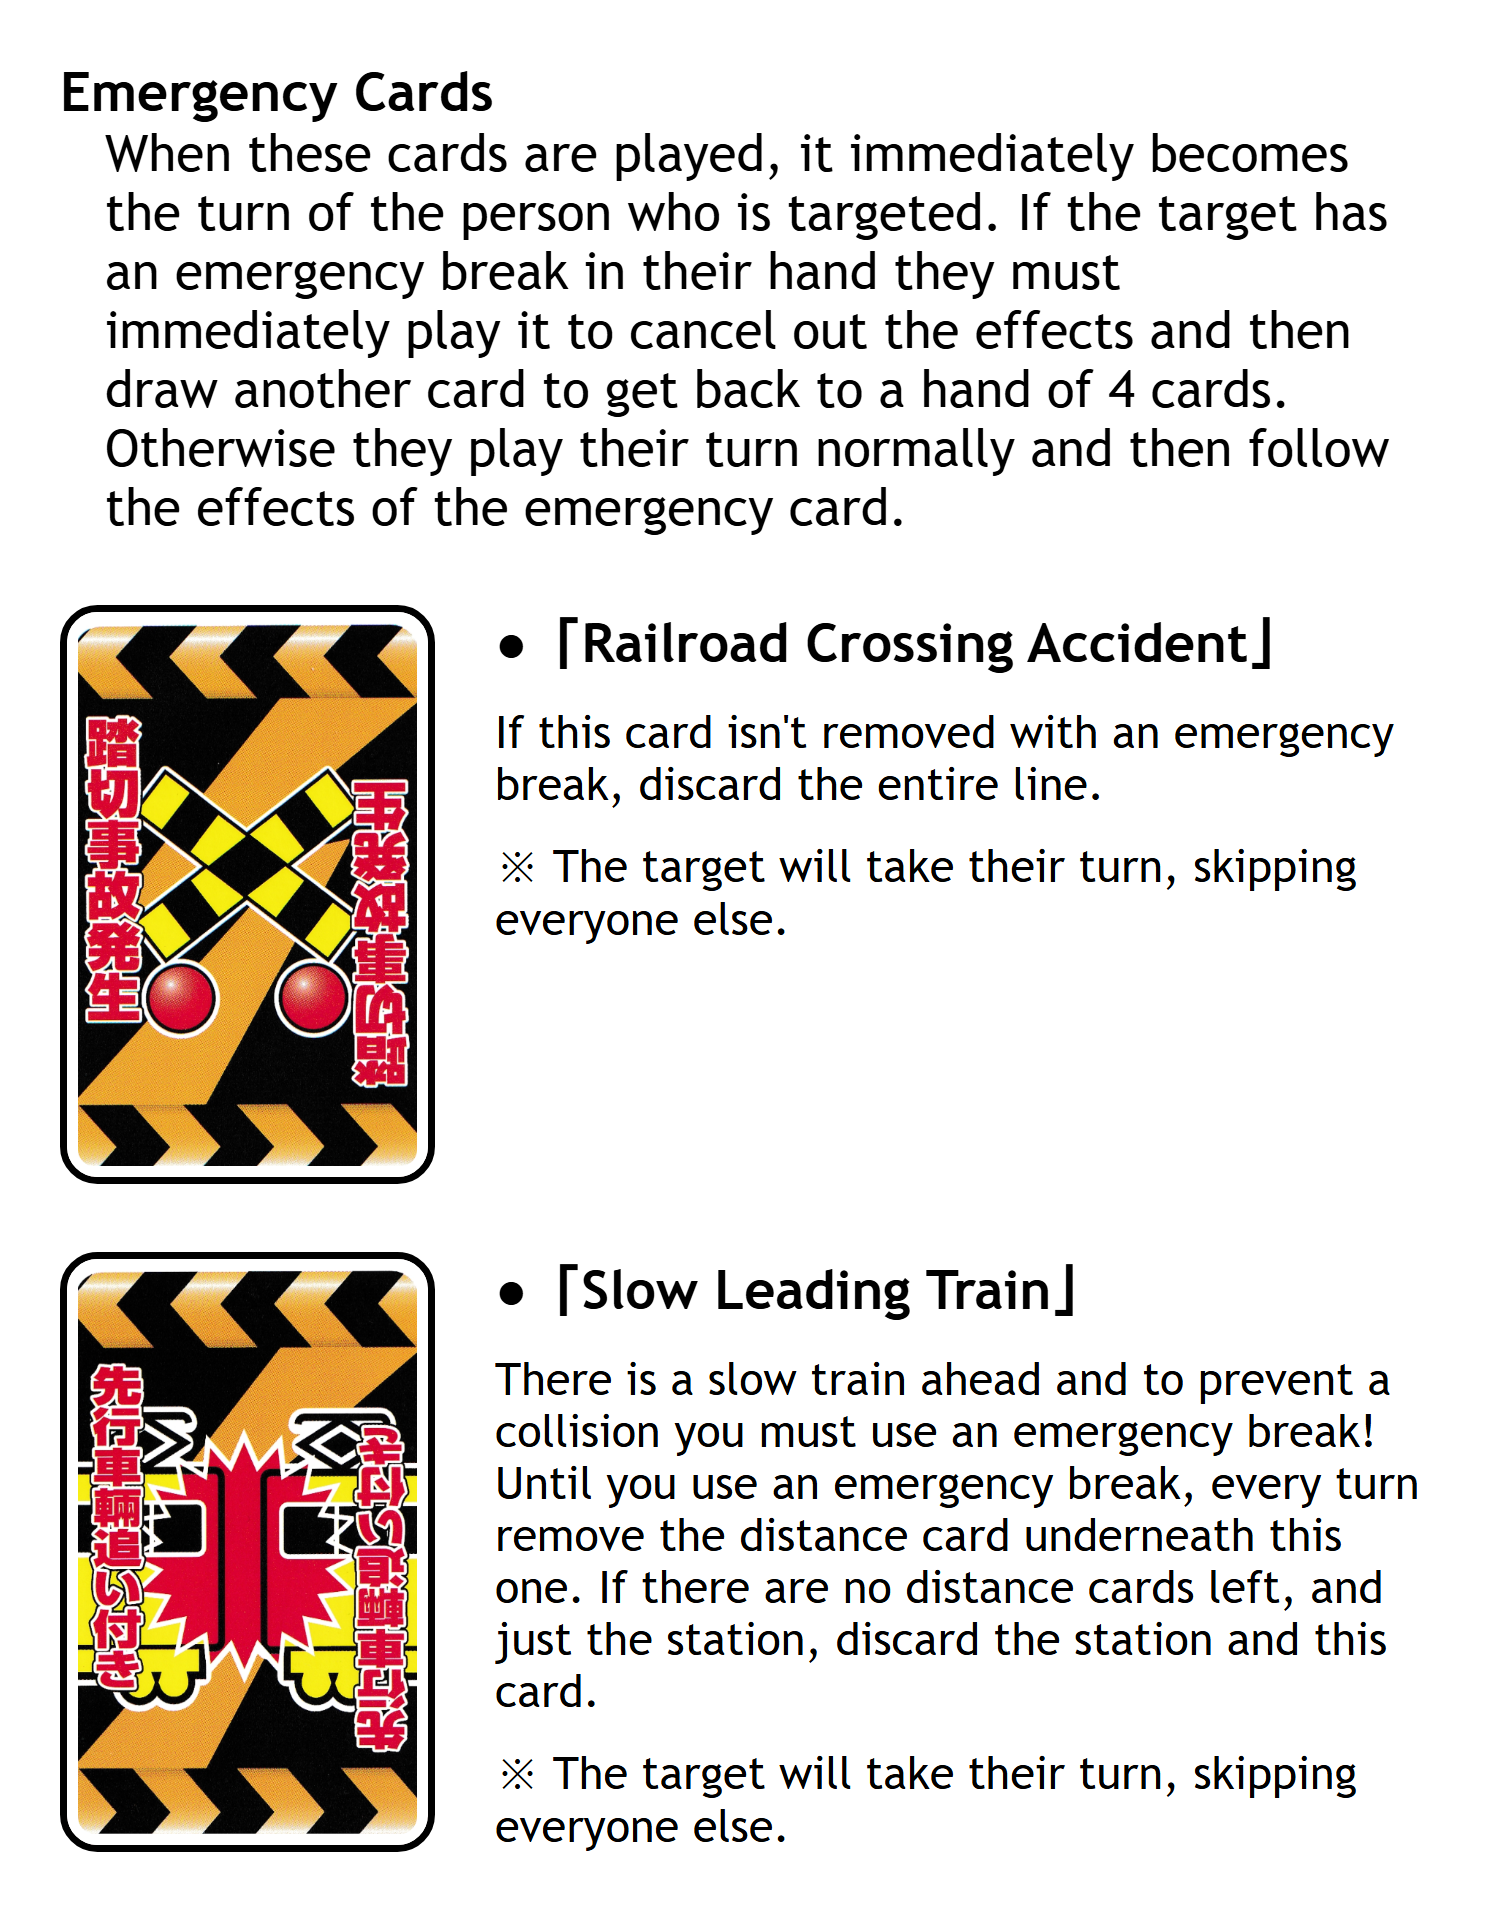
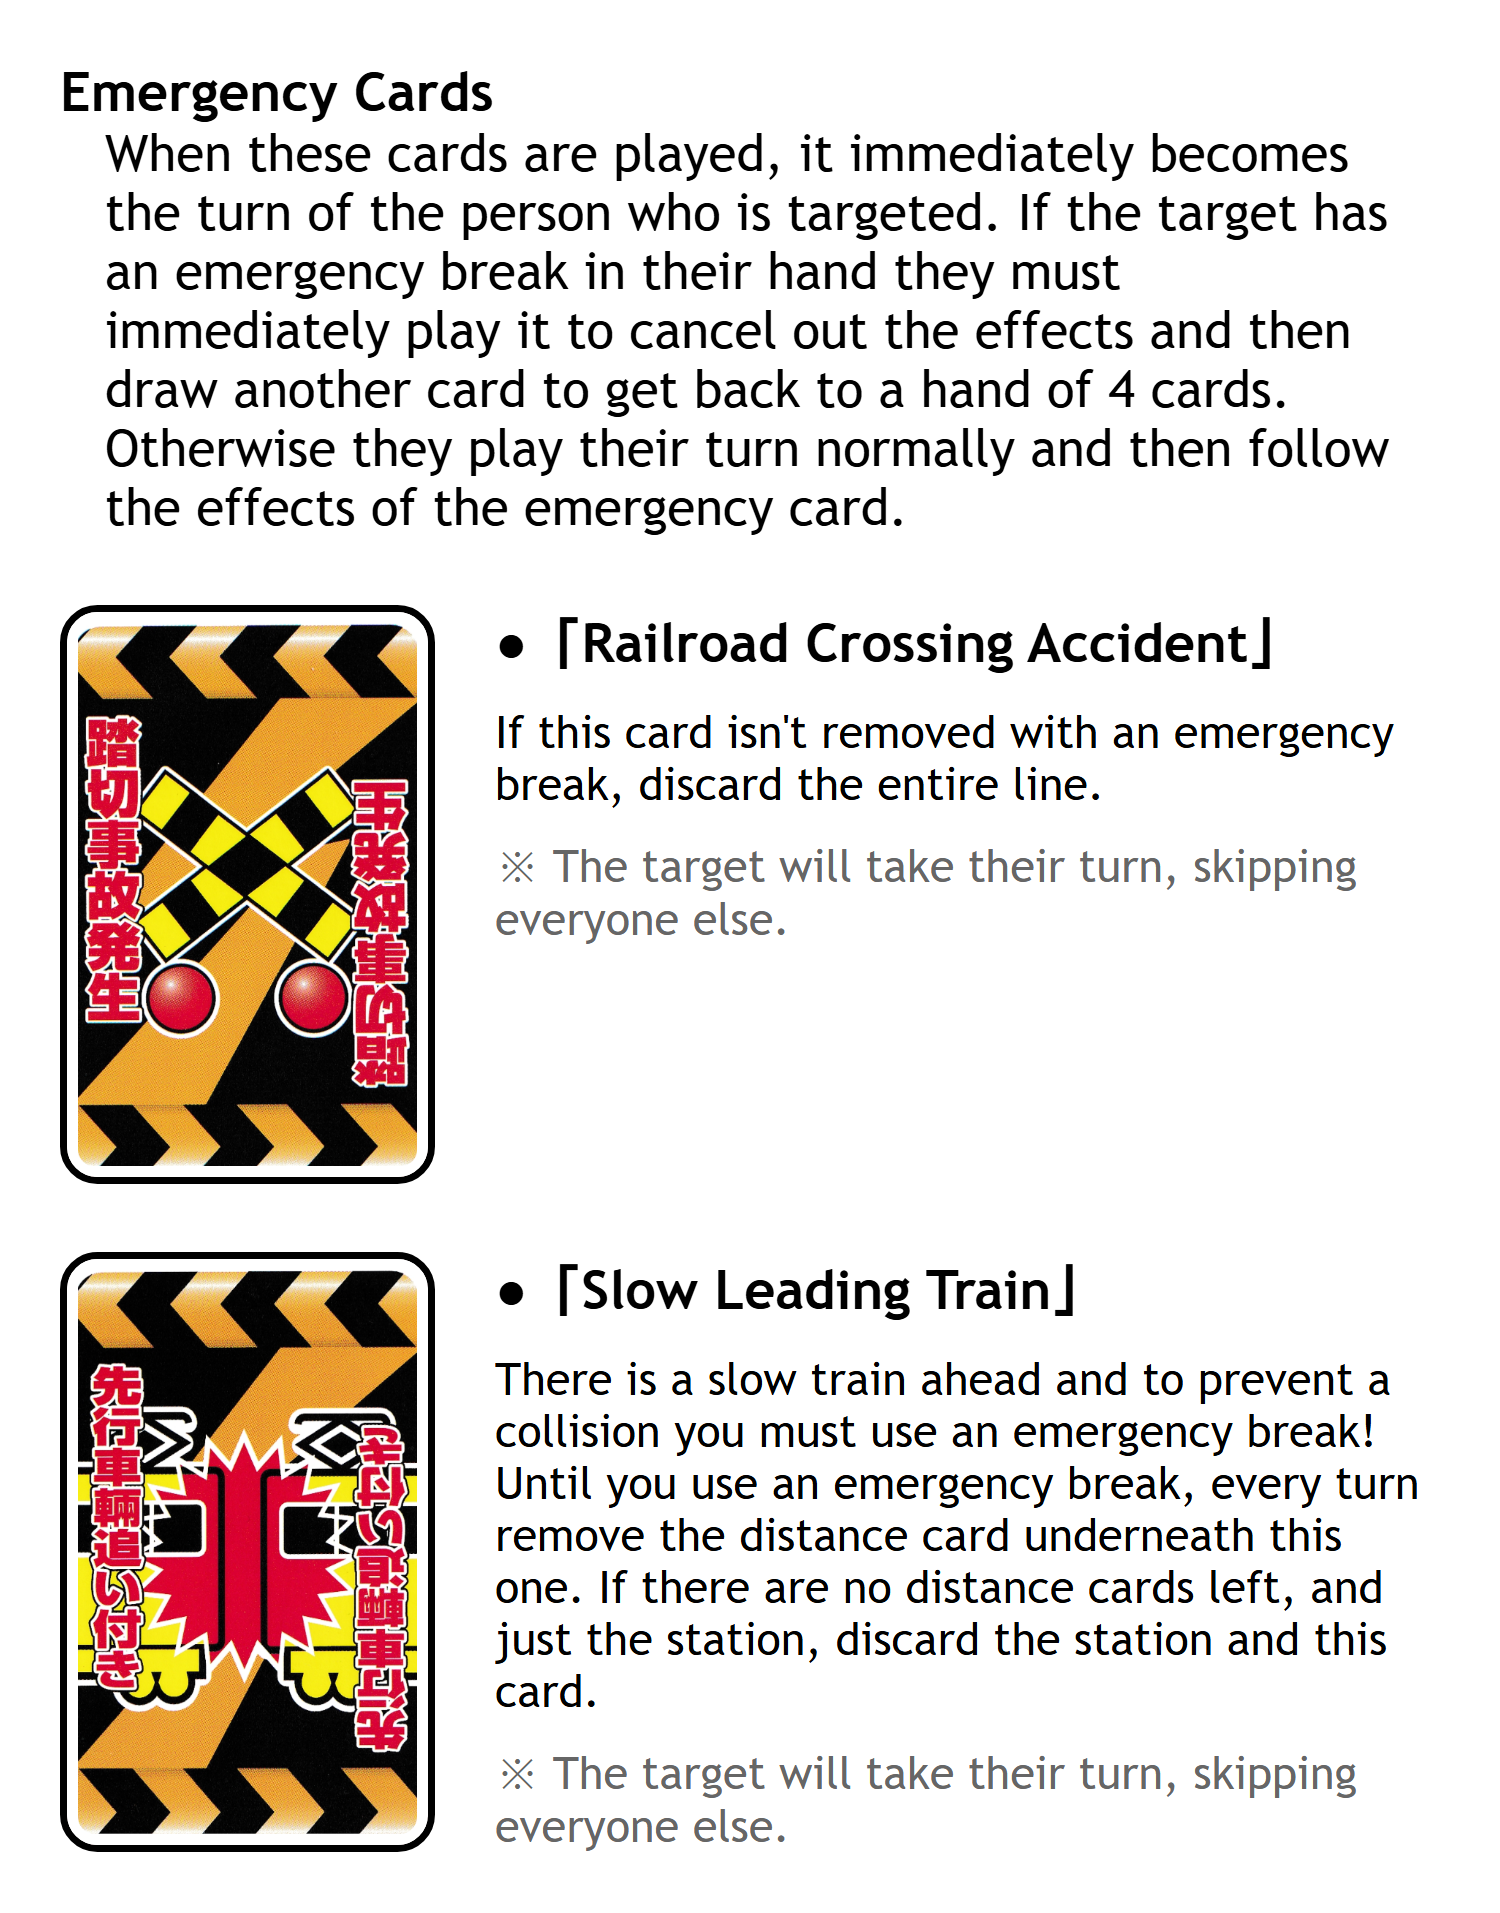
page 12

diff --git a/manual/en-html/page12.html b/manual/en-html/page12.html
@@ -4,60 +4,201 @@
     <meta charset="UTF-8">
     <title>Title</title>
     <link rel="stylesheet" href="./assets/common.css">
-  <style>
-    .top-section{
-        background: var(--yamanote-green);
-        padding: 20px 150px;
-        height: 40%;
-        display: flex;
-        flex-direction: column;
-        align-items: center;
-    }
-    .ddg-logo {
-        width: 100%;
-    }
+    <style>
+        .card-diagram {
+            position: relative;
+            width: 100%;
+            height: 500px
+        }
 
-    .card-game {
-        width: 300px;
-    }
+        .area-diagram {
+            position: absolute;
+            width: 500px;
+            height: 350px;
+            background: #ccc;
+            border: 2px dashed black;
+            padding: 10px;
+            top: 50px;
+            left: 100px;
+            z-index: 1;
+        }
 
-    .game-instructions {
-        font-size: 48px;
-        font-weight: bold;
-        margin-top: 20px;
-    }
+        .area-grid {
+            display: grid;
+            grid-template-columns: 1fr 1fr 1fr;
+            font-size: 24px;
+            gap: 20px;
+        }
 
-    .bottom-section {
-        padding: 60px 100px;
-        height: 60%;
-        display: flex;
-        flex-direction: column;
-        align-items: center;
-        font-size: 48px;
-        justify-content: space-between;
-    }
+        .area-column {
+            display: flex;
+            flex-direction: column;
 
-  </style>
+        }
+
+        .line-name {
+            text-align: center;
+            margin-top: -40px;
+            margin-bottom: 20px;
+        }
+
+        .card {
+            border: 2px solid black;
+            padding: 5px;
+            border-radius: 5px;
+            height: 200px;
+            text-align: center;
+            margin-bottom: -160px;
+        }
+
+        .card.missing {
+            background: #ccc;
+            border: 2px dashed black;
+        }
+        .card.sanin {
+            background: var(--sanin-red);
+        }
+        .card.tokaido {
+            background: var(--tokaido-orange);
+        }
+        .card.yamanote {
+            background: var(--yamanote-green);
+        }
+        .card.line-shut-down {
+            background: white;
+            display: flex;
+            flex-direction: column;
+            justify-content: center;
+        }
+
+        .arrow {
+            width: 250px;
+            position: absolute;
+            top: 200px;
+            left: 300px
+        }
+
+        #discarded {
+            position: absolute;
+            width: 145px;
+            font-size: 24px;
+            top: 0;
+            right: -220px;
+        }
+
+        .discarded-text {
+            font-size: 24px;
+            width: 300px;
+            position: absolute;
+            bottom: -80px;
+            right: -350px;
+        }
+
+        .tetsu-chan-diagram {
+            position: relative;
+            width: 100%;
+        }
+        .tetsu-chan-diagram img {
+            width: 100%;
+            margin-left: -20px;
+        }
+        .tetsu-chan-text {
+            position: absolute;
+            top: 130px;
+            left: 40px;
+            width: 400px;
+            font-size: 30px;
+            text-align: center;
+
+        }
+    </style>
 </head>
 <body>
-  <div class="page-content">
-    <div class="top-section">
-        <img src="assets/ddgLogo.webp" class="ddg-logo" />
-        <img src="assets/card-game.png" class="card-game" />
-        <div class="game-instructions">
-            Game Instructions
+<div class="page-content card-description-page">
+    <div class="card-and-description">
+        <img src="../../cards/drivingSuspension.png"/>
+        <div class="card-and-description-content">
+            <div class="card-title">
+                ●「Line Shut Down Card」
+            </div>
+            <div class="card-description">
+                When this card is played, the entire line is discarded. There is no corresponding guard card, so there's nothing that can be done.
+            </div>
+            <div class="card-disclaimer">
+                ※ The target will take their turn, skipping everyone else.
+            </div>
+            <div class="card-disclaimer">
+                ※ All cards for the affected line must be discarded.
+            </div>
         </div>
     </div>
-      <div class="bottom-section">
-          <div class="paragraph">
-            Drive the train from station to station and stop it exactly! Watch out for accidents and make sure to obey the signals. Use all sorts of tricks to slow down your opponents and reach the station before anyone else!
-          </div>
-          <div>
-              Become a train god! 「DENSHA DE GO!」
-          </div>
-          <img src="assets/matsudaya%20logo.png" class="matsudaya-logo" />
-      </div>
-  </div>
+    <div class="card-diagram">
+        <div class="area-diagram">
+            <div class="area-grid">
+                <div class="area-column">
+                    <div class="line-name">
+                        San'in
+                    </div>
+                    <div class="card sanin">
+                        Station 450
+                    </div>
+                    <div class="card sanin">
+                        100
+                    </div>
+                </div>
+                <div class="area-column">
+                    <div class="line-name">
+                        Tokaido
+                    </div>
+                    <div class="card missing">
+                        Station 800
+                    </div>
+                    <div class="card missing">
+                        500
+                    </div>
+                    <div class="card missing">
+                        200
+                    </div>
+                    <div class="card line-shut-down">
+                        Line Shut Down
+                    </div>
+                </div>
+                <div class="area-column">
+                    <div class="line-name">
+                        Yamanote
+                    </div>
+                    <div class="card yamanote">
+                        Station 500
+                    </div>
+                </div>
+            </div>
+            <img src="./assets/page12Arrow.png" class="arrow"/>
+            <div class="area-column" id="discarded">
+                <div class="card tokaido">
+                    Station 800
+                </div>
+                <div class="card tokaido">
+                    500
+                </div>
+                <div class="card tokaido">
+                    200
+                </div>
+                <div class="card line-shut-down">
+                    Line Shut Down
+                </div>
+            </div>
+            <div class="discarded-text">
+                Discard the station, all distance cards, and the Line Shut Down card.
+            </div>
+        </div>
+    </div>
+    <div class="tetsu-chan-diagram">
+        <img src="assets/page12.png" />
+        <div class="tetsu-chan-text">
+            It's no use! The Line Shut Down card is too powerful!
+        </div>
+    </div>
+</div>
 
 </body>
 </html>

diff --git a/manual/en-html/assets/common.css b/manual/en-html/assets/common.css
@@ -97,4 +97,5 @@ body {
 .card-disclaimer{
     font-size: 30px;
     margin-top: 20px;
+    color: #666;
 }

diff --git a/todo.md b/todo.md
@@ -1,9 +1,7 @@
 Manual:
-* page 12 - hard
 * page 13 - hard
 
 Other tasks
-* crop manual pages
 * make manual pdf
 * Make table top sim mod
 * publish mod to workshop
